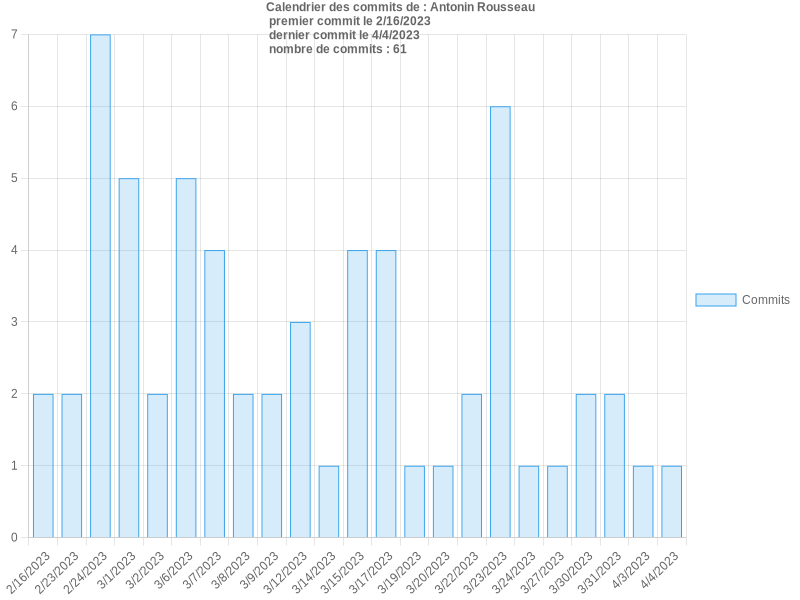
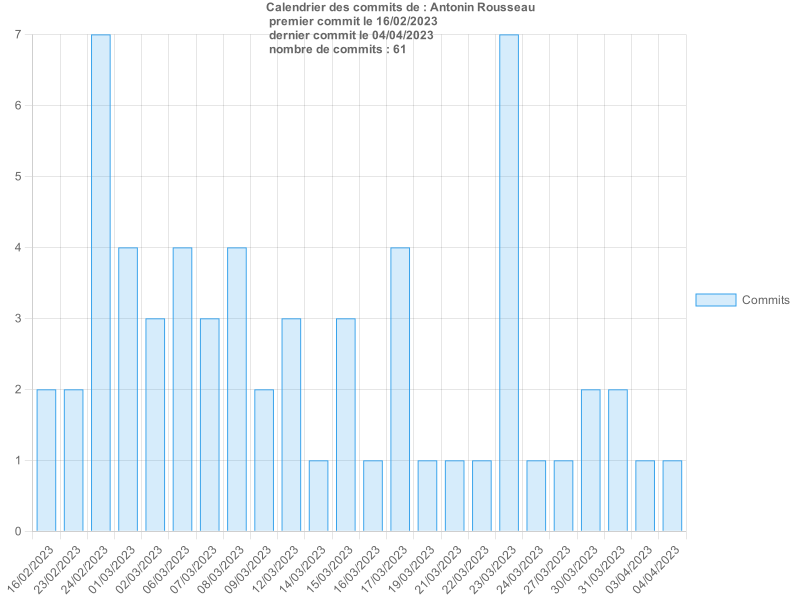
dates cocorico no americano

Changed region(s): [[0.0, 0.06, 0.875, 0.99], [0.3125, 0.0, 0.5625, 0.09], [0.625, 0.0, 0.6562, 0.03]]

diff --git a/stats/index.js b/stats/index.js
@@ -165,7 +165,7 @@ const genCalendar = async () => {
       type: "bar",
       data: {
         labels: commitsO.map((commit) =>
-          new Date(commit.date).toLocaleDateString()
+          new Date(commit.date).toLocaleDateString("fr-FR")
         ),
 
         datasets: [
@@ -199,13 +199,13 @@ const genCalendar = async () => {
               "\n premier commit le " +
               new Date(
                 commitsByUser.get(user)[0].commit.author.date
-              ).toLocaleDateString() +
+              ).toLocaleDateString("fr-FR") +
               "\n dernier commit le " +
               new Date(
                 commitsByUser.get(user)[
                   commitsByUser.get(user).length - 1
                 ].commit.author.date
-              ).toLocaleDateString() +
+              ).toLocaleDateString("fr-FR") +
               "\n nombre de commits : " +
               commitsByUser.get(user).length,
           },
